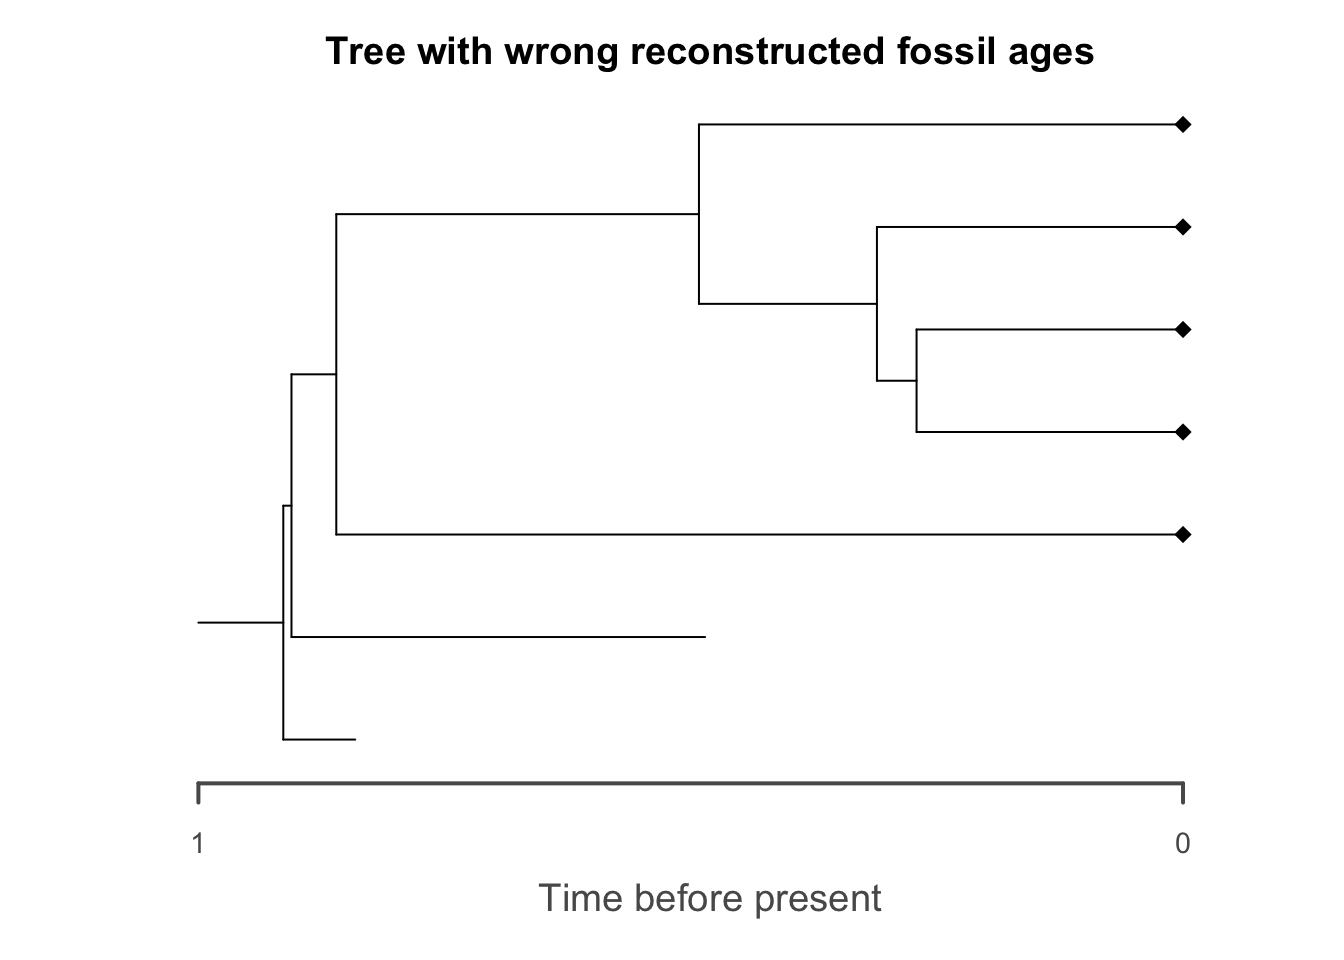
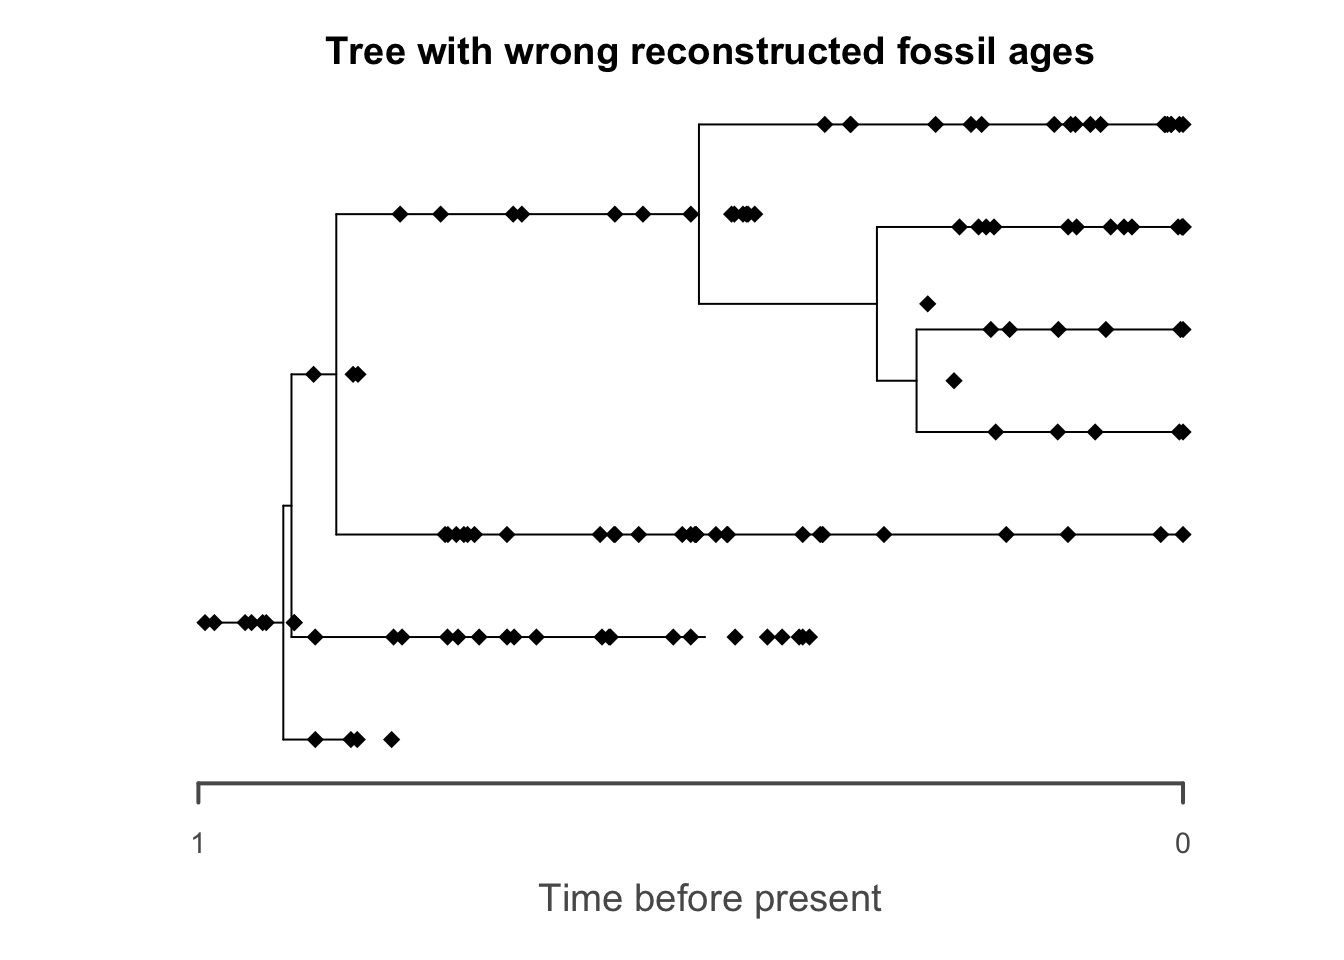
fixing things by updating R packages

diff --git a/docs/day3/FBD_sim.html b/docs/day3/FBD_sim.html
@@ -576,12 +576,14 @@ Fossil record not simulated using taxonomy: all speciation events are assumed to
 <span id="cb13-2"><a href="#cb13-2" aria-hidden="true" tabindex="-1"></a>MorphSim<span class="sc">::</span><span class="fu">write.morpho</span>(<span class="at">data =</span> morpho_mk,</span>
 <span id="cb13-3"><a href="#cb13-3" aria-hidden="true" tabindex="-1"></a>                       <span class="at">file =</span> <span class="st">"char_mat_temp.nex"</span>,</span>
 <span id="cb13-4"><a href="#cb13-4" aria-hidden="true" tabindex="-1"></a>                       <span class="at">type =</span> <span class="st">"matrix"</span>,</span>
-<span id="cb13-5"><a href="#cb13-5" aria-hidden="true" tabindex="-1"></a>                       <span class="at">reconstructed =</span> <span class="cn">TRUE</span>)</span>
-<span id="cb13-6"><a href="#cb13-6" aria-hidden="true" tabindex="-1"></a><span class="co"># export taxon ages</span></span>
-<span id="cb13-7"><a href="#cb13-7" aria-hidden="true" tabindex="-1"></a>MorphSim<span class="sc">::</span><span class="fu">write.morpho</span>(<span class="at">data =</span> morpho_mk,</span>
-<span id="cb13-8"><a href="#cb13-8" aria-hidden="true" tabindex="-1"></a>                       <span class="at">file =</span> <span class="st">"ages_temp.tsv"</span>,</span>
-<span id="cb13-9"><a href="#cb13-9" aria-hidden="true" tabindex="-1"></a>                       <span class="at">type =</span> <span class="st">"ages"</span>,</span>
-<span id="cb13-10"><a href="#cb13-10" aria-hidden="true" tabindex="-1"></a>                       <span class="at">reconstructed =</span> <span class="cn">TRUE</span>)</span></code></pre></div><button title="Copy to Clipboard" class="code-copy-button"><i class="bi"></i></button></div>
+<span id="cb13-5"><a href="#cb13-5" aria-hidden="true" tabindex="-1"></a>                       <span class="at">all =</span> <span class="cn">TRUE</span>,</span>
+<span id="cb13-6"><a href="#cb13-6" aria-hidden="true" tabindex="-1"></a>                       <span class="at">reconstructed =</span> <span class="cn">TRUE</span>)</span>
+<span id="cb13-7"><a href="#cb13-7" aria-hidden="true" tabindex="-1"></a><span class="co"># export taxon ages</span></span>
+<span id="cb13-8"><a href="#cb13-8" aria-hidden="true" tabindex="-1"></a>MorphSim<span class="sc">::</span><span class="fu">write.morpho</span>(<span class="at">data =</span> morpho_mk,</span>
+<span id="cb13-9"><a href="#cb13-9" aria-hidden="true" tabindex="-1"></a>                       <span class="at">file =</span> <span class="st">"ages_temp.tsv"</span>,</span>
+<span id="cb13-10"><a href="#cb13-10" aria-hidden="true" tabindex="-1"></a>                       <span class="at">type =</span> <span class="st">"ages"</span>,</span>
+<span id="cb13-11"><a href="#cb13-11" aria-hidden="true" tabindex="-1"></a>                       <span class="at">all =</span> <span class="cn">TRUE</span>,</span>
+<span id="cb13-12"><a href="#cb13-12" aria-hidden="true" tabindex="-1"></a>                       <span class="at">reconstructed =</span> <span class="cn">TRUE</span>)</span></code></pre></div><button title="Copy to Clipboard" class="code-copy-button"><i class="bi"></i></button></div>
 </div>
 <p>With this data at hand, you can now try to recover your simulation setup parameters using the Bayesian tree inference tool of your choice. Example scripts for this are available under “Inference helpers” (chapter 13).</p>
 

diff --git a/docs/day3/StratPal_phylo.html b/docs/day3/StratPal_phylo.html
@@ -82,7 +82,7 @@ pre > code.sourceCode > span > a:first-child::before { text-decoration: underlin
 <link href="../site_libs/quarto-html/quarto-syntax-highlighting-64a204ab8560d761af7679ceaba22944.css" rel="stylesheet" id="quarto-text-highlighting-styles">
 <script src="../site_libs/bootstrap/bootstrap.min.js"></script>
 <link href="../site_libs/bootstrap/bootstrap-icons.css" rel="stylesheet">
-<link href="../site_libs/bootstrap/bootstrap-631496449bf32ff9b0bb69a6bfd9195d.min.css" rel="stylesheet" append-hash="true" id="quarto-bootstrap" data-mode="light">
+<link href="../site_libs/bootstrap/bootstrap-d3f7f8e73c8d287b30bcf59c2b563615.min.css" rel="stylesheet" append-hash="true" id="quarto-bootstrap" data-mode="light">
 <script id="quarto-search-options" type="application/json">{
   "location": "sidebar",
   "copy-button": false,

diff --git a/docs/index.html b/docs/index.html
@@ -83,7 +83,7 @@ pre > code.sourceCode > span > a:first-child::before { text-decoration: underlin
 <link href="site_libs/quarto-html/quarto-syntax-highlighting-64a204ab8560d761af7679ceaba22944.css" rel="stylesheet" id="quarto-text-highlighting-styles">
 <script src="site_libs/bootstrap/bootstrap.min.js"></script>
 <link href="site_libs/bootstrap/bootstrap-icons.css" rel="stylesheet">
-<link href="site_libs/bootstrap/bootstrap-631496449bf32ff9b0bb69a6bfd9195d.min.css" rel="stylesheet" append-hash="true" id="quarto-bootstrap" data-mode="light">
+<link href="site_libs/bootstrap/bootstrap-d3f7f8e73c8d287b30bcf59c2b563615.min.css" rel="stylesheet" append-hash="true" id="quarto-bootstrap" data-mode="light">
 <script id="quarto-search-options" type="application/json">{
   "location": "sidebar",
   "copy-button": false,

diff --git a/docs/instructions.html b/docs/instructions.html
@@ -82,7 +82,7 @@ pre > code.sourceCode > span > a:first-child::before { text-decoration: underlin
 <link href="site_libs/quarto-html/quarto-syntax-highlighting-64a204ab8560d761af7679ceaba22944.css" rel="stylesheet" id="quarto-text-highlighting-styles">
 <script src="site_libs/bootstrap/bootstrap.min.js"></script>
 <link href="site_libs/bootstrap/bootstrap-icons.css" rel="stylesheet">
-<link href="site_libs/bootstrap/bootstrap-631496449bf32ff9b0bb69a6bfd9195d.min.css" rel="stylesheet" append-hash="true" id="quarto-bootstrap" data-mode="light">
+<link href="site_libs/bootstrap/bootstrap-d3f7f8e73c8d287b30bcf59c2b563615.min.css" rel="stylesheet" append-hash="true" id="quarto-bootstrap" data-mode="light">
 <script id="quarto-search-options" type="application/json">{
   "location": "sidebar",
   "copy-button": false,
